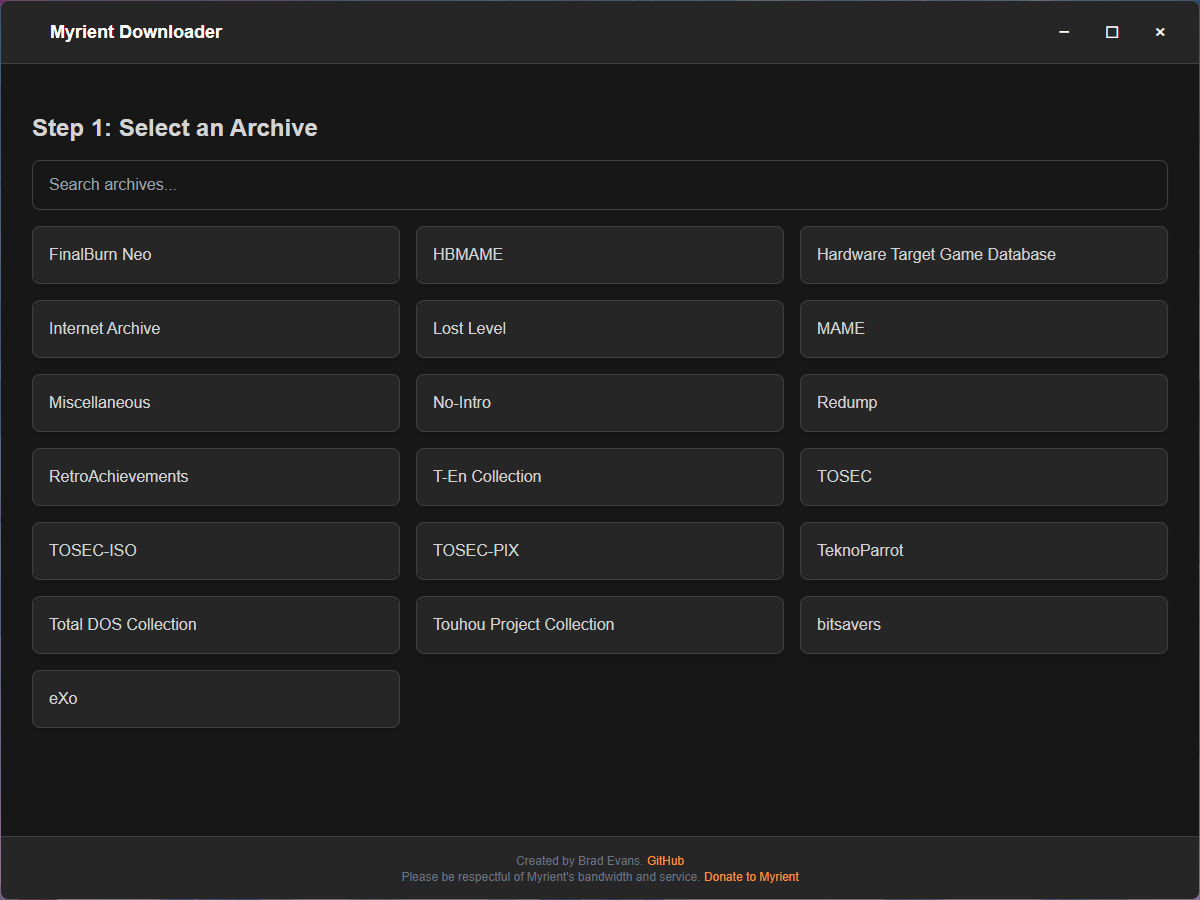
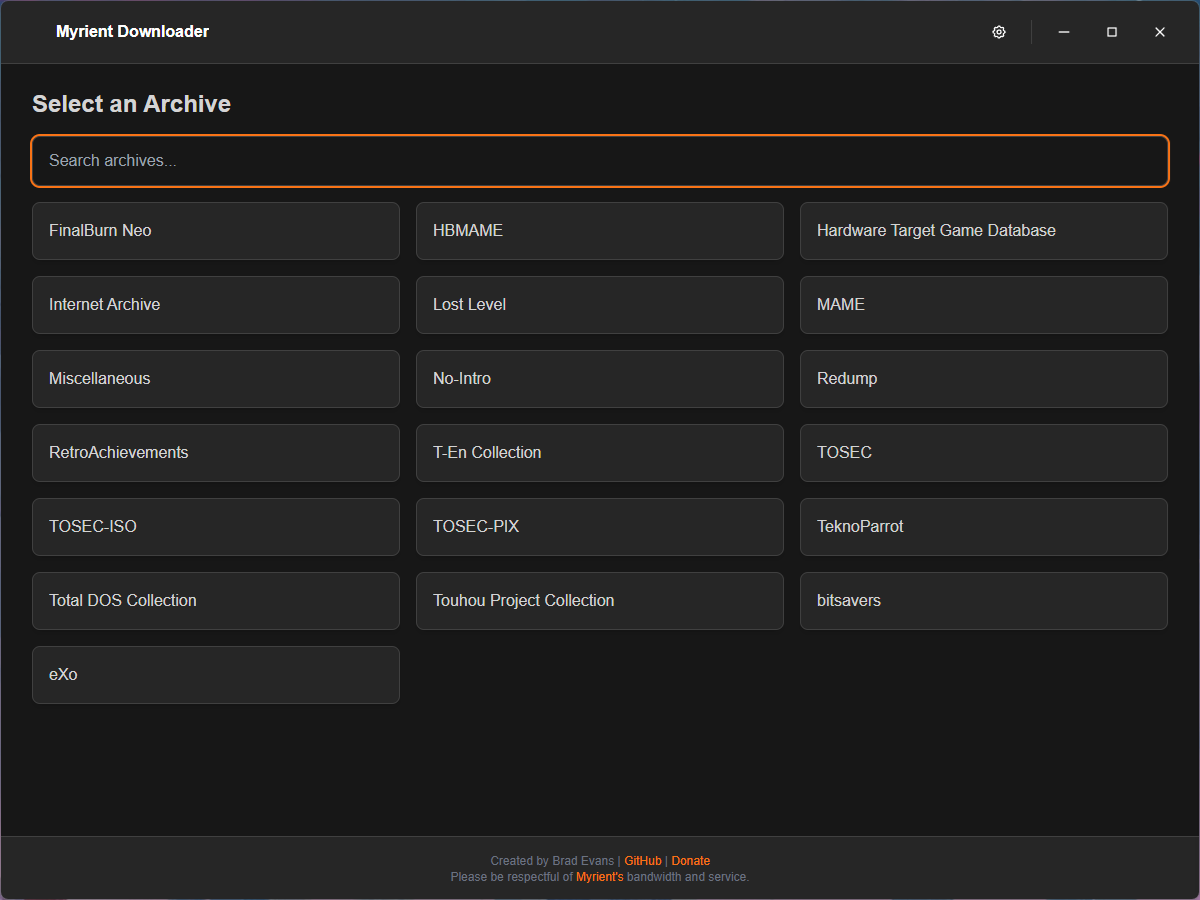
chore: update readme

diff --git a/README.md b/README.md
@@ -17,34 +17,66 @@ Please consider donating to support my work and Myrient's service.
 
 ## What the Application Does
 
-![Archive Selection](screenshots/select-archive.png)
-
-The Myrient Downloader provides a seamless **four-step process** for creating curated game collections:
+The Myrient Downloader provides a seamless process for creating curated game collections:
 1.  **Browse and Select:** Allows users to easily browse and search the entire Myrient catalog of archives (e.g., No-Intro, MAME) and drill down into specific systems or categories.
-
-![Directory Selection](screenshots/select-directory.png)
-
-2.  **Filter and Curate:** Presents a powerful wizard to filter thousands of files down to a specific list based on custom rules:
+2.  **Optionally Filter and Curate:** Presents a powerful wizard to filter thousands of files down to a specific list based on custom rules:
     * **Exclude/Include Tags:** Filter files by region or language tag (e.g., keep only `(USA)`).
     * **Revision Control:** Automatically select only the single highest revision of every game title.
+    * **Multi-Disc/Cart:** Automatically download all discs or cartridges for a given title.
     * **Priority De-duplication:** Allows the user to build a priority list of tags to select the *best* version when multiple unique copies of a game exist.
-
-![Tag Selection](screenshots/filtering-wizard-tags.png)
-
-![Tag Prioritisation](screenshots/filtering-wizard-prioritisation.png)
-
+    * **Skip The Filtering:** Don't need to filter? Go ahead and skip it! Archives that don't support tags will skip the filtering automatically.
 3.  **Download:** Executes the download of the final, filtered list of files.
-4.  **Manage Progress:** Displays a live overall size-based progress bar with an **accurate time remaining estimate**. It handles file skipping for existing archives and provides a safe cancellation feature that prompts the user to delete any incomplete file.
-    * **Smart Resuming:** The application **scans for existing local files** and automatically resumes the overall progress bar from the point it left off. Files that are fully downloaded are skipped, ensuring efficient use of bandwidth.
+    * **Include/Exclude Individual Titles:** Toggle download for titles on and off individually.
+    * **Directory Management:** Automatically create sub directories for every title. If you target a directory with a conflicting folder structure you will be warned before continuing.
+    * **Extract Archives:** Automatically extract files and delete the original archives. It will even do this for things you previously downloaded.
+4.  **Manage Progress:** Displays a live overall size-based progress bar with an **accurate time remaining estimate**. It handles file skipping for existing archives and provides a safe cancellation will delete incomplete files.
+    * **Smart Resuming:** The application **scans for existing local files** and automatically resumes the download from the point it left off. Files that are fully downloaded are skipped, ensuring efficient use of bandwidth. This also works for extraction.
+5. **Quality of Life:** A variety of features and visual queues help you to use the application.
+   * **Tooltips:** Helpful informative tooltips are scattered across the UI to help explain how things work.
+   * **Update Notification:** Get notified when a new version is available for download.
+   * **Settings Menu:** A settings menu lets you check for updates and adjust application zoom levels for better support across a variety of displays.
+   * **Keyboard Navigation:** Using your arrow keys and enter you can navigate many of the UI elements quickly and efficiently.
 
-![alt text](screenshots/download-preview.png)
-![Donwloading](screenshots/downloading.png)
+*And much, much more...*
+  
+***
+
+## Screenshots
+![Archive Selection](screenshots/select-archive.png)
+*Select your archive.*
+
+![Directory Selection](screenshots/select-directory.png)
+*Select your directory.*
+
+![Filtering Wizard (1/2)](screenshots/filtering-wizard-1.png)
+*Include/exclude tags.*
+
+![Filtering Wizard (2/2)](screenshots/filtering-wizard-2.png)
+*Set your filtering preferences and prioritise your tags.*
+
+![Results Page](screenshots/final-result.png)
+*Select your titles.*
+
+![Download Options & Progesss Bar](screenshots/download-extract.png)
+*Configure your download options and monitor progress.*
+
+![Folder Structure Mismatch](screenshots/structure-mismatch.png)
+*Warnings when target directories differ from your desired folder structure.*
+
+![Skip the Filtering)](screenshots/skip-wizard.png)
+*Optionally, skip filtering all together if you're after something specific.*
+
+![Update Notification](screenshots/update-notification.png)
+*Get notified when a new version is available.*
+
+![Settings Menu](screenshots/settings-menu.png)
+*Check for updates or adjust zoom levels.*
 
 ***
 
 ## Requirements & Installation (Source Code)
 
-**This section is for developers or users who want to run the application from the source code (instead of downloading a pre-compiled executable), or build their own executable (sorry I only have a Windows machine).**
+**This section is for developers or users who want to run the application from the source code (instead of downloading a pre-compiled executable), or build their own executable.**
 
 1.  **Clone/Download:** Get all the files from this repository.
 
